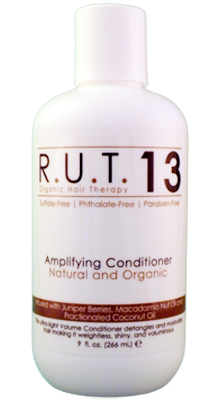
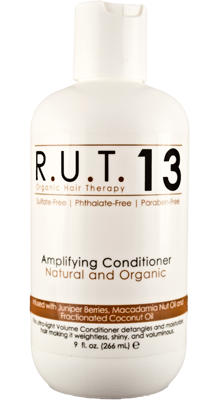
Update Images To Higher Resolution
Colon-Balanced images

diff --git a/amplifier.html b/amplifier.html
@@ -92,9 +92,7 @@
                         <ul>
                             <!-- <li><a href="#">Curly Hair</a></li> -->
 
-                            <li><a href="./amplifier.html">Amplifier</a></li>
-
-                            <li><a href="./amplifier.html">Amplifier</a></li>
+                        <li><a href="./amplifier.html">Amplifier</a></li>
 
                             <li><a href="./amplifying-shampoo.html">Amplifying Shampoo</a></li>
 
@@ -203,7 +201,7 @@
 
                 <div id="content-right">
                     <div class="sidebar-box">
-                        <img src="images-rut13/amplifying-conditioner.png" alt="amplifying-conditioner" width="220" height="400" />
+                        <img src="images-rut13/amplifier.png" alt="amplifier" width="220" height="400" />
 
                         <h3>Amplifying Conditioner</h3>
 

diff --git a/leave-in-wearable-treatment.html b/leave-in-wearable-treatment.html
@@ -200,6 +200,8 @@
 
                 <div id="content-right">
                     <div class="sidebar-box">
+                        <img src="images-rut13/wearable-treatment.png" alt="wearable-treatment" width="220" height="400" />
+                        
                         <h3>Leave-In Wearable Treatment</h3>
 
                         <p class="text-services"><font color="#000">R</font><font color="#946436">.</font><font color="#000">U</font><font color="#946436">.</font><font color="#000">T</font><font color="#946436">.</font><font color="#000">13</font> Hair Therapy products are sulphate-free, phthalate-free, salt-free, and paraben-free. Bringing out the best organic products available! Sold only in Professional Salons. Not Tested On Animals</p>
